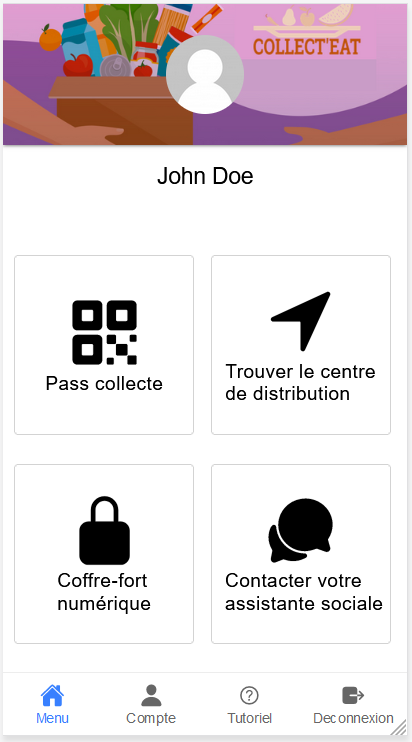
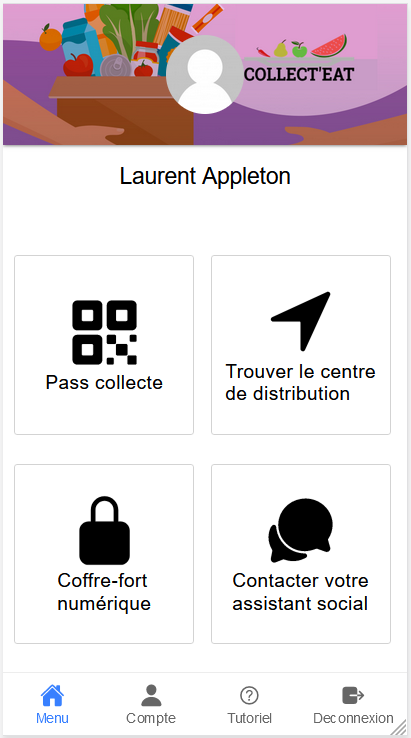
typo

diff --git a/src/app/pages/tutorial/tutorial.html b/src/app/pages/tutorial/tutorial.html
@@ -26,7 +26,7 @@
       <img src="assets/img/menu.PNG" class="slide-image" />
       <h2 class="slide-title">Menu principal</h2>
       <p>
-        Le menu principal de l'application vous d'accéder rapidement à toutes les fonctionalités proposées</p>
+        Le menu principal de l'application vous permet d'accéder rapidement à toutes les fonctionalités proposées</p>
     </ion-slide>
 
     <ion-slide>
@@ -47,15 +47,15 @@
       <img src="assets/img/safe.png" class="slide-image" />
       <h2 class="slide-title">Coffre-fort numérique <ion-icon class="big" name="lock-closed"></ion-icon> </h2>
       <p>
-        Le bouton <b>Coffre-fort numérique</b> permet d'accéder à votre espace de sotckage sécurisée où vous pouvez ajouter vos documents</p>
+        Le bouton <b>Coffre-fort numérique</b> permet d'accéder à votre espace de stockage sécurisé où vous pouvez ajouter vos documents</p>
     </ion-slide>
 
     
     <ion-slide>
       <img src="assets/img/chat.png" class="slide-image" />
-      <h2 class="slide-title">Contacter votre assistante sociale<ion-icon class="big" name="chatbubbles"></ion-icon> </h2>
+      <h2 class="slide-title">Contacter votre assistant social<ion-icon class="big" name="chatbubbles"></ion-icon> </h2>
       <p>
-        Besoin d'aide ? Le bouton <b>Contacter votre assistante sociale</b> permet de contacter votre assistante sociale pour vous assiter sur le fonctionnement de l'application ou pour tout autre question.</p>
+        Besoin d'aide ? Le bouton <b>Contacter votre assistant social</b> permet de contacter votre assistant social pour vous assiter sur le fonctionnement de l'application ou pour tout autre question.</p>
     </ion-slide>
 
     <ion-slide>
